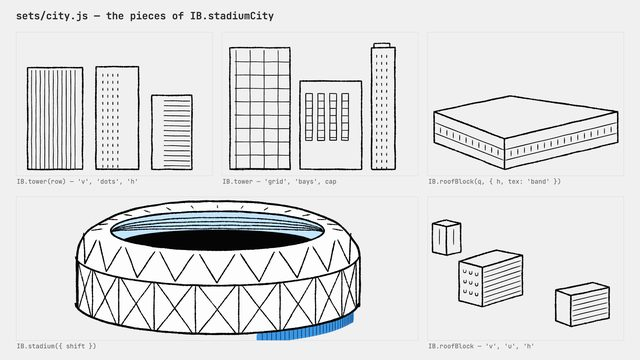
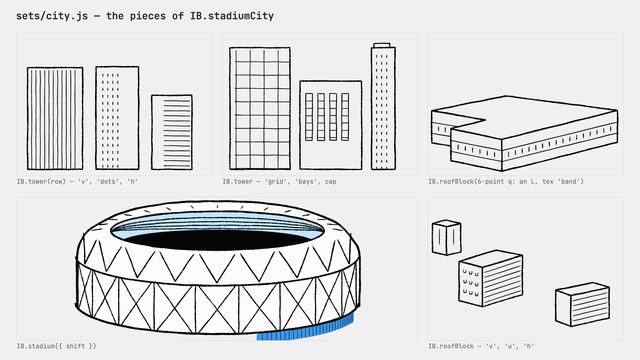
fix: 도시 설정 샷의 전경 지붕을 원본처럼 꺾인 L자로
계획 4-3의 첫째 약점이다. 원본 첫 설정 샷은 전경 블록 몇 개의 지붕이 꺾여 있다(모서리가 파인 L자, 안쪽으로 파인 홈). 지금까지는 모든 지붕이 네 점짜리 상자였다(city.js의 `성진:` 주석).
- `IB.roofBlock`이 다섯 점 이상의 지붕을 받는다. 보는 쪽(화면 아래)을 향한 변마다 벽을 내리고, 먼 벽부터 그린 뒤 지붕으로 덮는다. 무늬는 모든 벽에 얹는다.
  - 네 점 지붕은 예전 코드 그대로라 다른 블록의 그림은 바뀌지 않는다.
- 원본 첫 프레임을 50 px 격자로 읽어 두 블록을 다시 놓았다:
  - 왼쪽 앞의 큰 'band' 블록: 앞 왼쪽 모서리가 파인 L
  - 뒤의 두 상자: 오른쪽에 홈이 파인 한 블록, 벽 55 px
- 견본 sets/city-parts의 'band' 칸을 L 지붕으로 바꿨다.

확인:
- capture.py --compare를 원본 2, 20, 40프레임에서 원 해상도로 크롭해 대조했다(out/ibm-rig/city/). 꺾인 지붕의 모양과 벽 위치가 원본과 같은 방향으로 읽힌다.
- 처음엔 벽이 뒤쪽 변에 내려왔다(바깥 방향 부호 반대). 고치고 다시 봤다.
- check_pure 3/3, test_kit ok.

남은 차이(원래 있던 것): 원본 대비 장면 전체 구도가 몇십 px 어긋난다. 이 PR의 이유가 아니라 남겼다.

Claude-Session: https://claude.ai/code/session_01SxpfC2T1LyEk5ytvqY9P1D

Changed region(s): [[0.6562, 0.2444, 0.9688, 0.5194]]

diff --git a/parts.html b/parts.html
@@ -19,7 +19,7 @@
 </style>
 <h1>모션그래픽 레퍼런스 부품</h1>
 <p class="lead">부품 견본 59장 · 장면을 조립하는 kit 부품의 상태와 동작 · 카드에 마우스를 올리면 재생 · <a href="index.html">장면 시트</a></p>
-<h2>IBM</h2><h3>선·색·질감 <code>look</code></h3><div class="grid"><a class="card" href="IBM/parts/look/bend.html"><div class="thumb"><img src="IBM/thumbs/parts-look-bend.jpg" alt="" loading="lazy"></div><b>bend</b><span>견본 · 4s</span><p>선·색·질감 견본: 바닥 가운데로 서 있는 종이 한 장의 휨 IB.bend의 여섯 값.</p></a><a class="card" href="IBM/parts/look/copy.html"><div class="thumb"><img src="IBM/thumbs/parts-look-copy.jpg" alt="" loading="lazy"></div><b>copy</b><span>견본 · 4s</span><p>선·색·질감 견본: 카피 블록 IB.copy와 원본에서 잰 글자 크기 IB.TYPE(spot, head, body), 글꼴 IB.FONT(Pretendard).</p></a><a class="card" href="IBM/parts/look/crop.html"><div class="thumb"><img src="IBM/thumbs/parts-look-crop.jpg" alt="" loading="lazy"></div><b>crop</b><span>견본 · 3s</span><p>선·색·질감 견본: 원본 1920×1080 배치의 16:9 한 영역을 화면 가득 키우는 IB.crop.</p></a><a class="card" href="IBM/parts/look/endcard.html"><div class="thumb"><img src="IBM/thumbs/parts-look-endcard.jpg" alt="" loading="lazy"></div><b>endcard</b><span>견본 · 3s</span><p>선·색·질감 견본: 엔드카드의 한 줄 IB.copy(size &#x27;tag&#x27;, IB.TYPE.tag)과 그 아래 폭 1000px의 파란 분필 스미어 IB.smear.</p></a><a class="card" href="IBM/parts/look/line.html"><div class="thumb"><img src="IBM/thumbs/parts-look-line.jpg" alt="" loading="lazy"></div><b>line</b><span>견본 · 4s</span><p>선·색·질감 견본: 붓펜 한 획 IB.ink의 옵션과 점 목록 도우미(IB.line, IB.rect, IB.ellipse, IB.mirror, IB.along).</p></a><a class="card" href="IBM/parts/look/palette.html"><div class="thumb"><img src="IBM/thumbs/parts-look-palette.jpg" alt="" loading="lazy"></div><b>palette</b><span>견본 · 2s</span><p>선·색·질감 견본: 원본 프레임에서 뽑은 팔레트 IB.C의 색 열다섯과 피부색 다섯(IB.C.skin)을 붓펜 외곽선을 두른 면으로 늘어놓는다.</p></a><a class="card" href="IBM/parts/look/shapes.html"><div class="thumb"><img src="IBM/thumbs/parts-look-shapes.jpg" alt="" loading="lazy"></div><b>shapes</b><span>견본 · 4s</span><p>선·색·질감 견본: 붓펜 도형 줄임말 IB.box(직선은 곧게, 모서리 또렷), IB.oval(둥근 것), IB.seg(선분 하나), 색 띠에 양쪽 먹 가장자리를 두른 IB.tube(팔다리, 자전거 프레임)와 그것을 13px·2.75px 라벤더로 고정한 IB.pipe(받침대와 기계의 다리), 바닥 대신 놓는 파란 분필 스미어 IB.smear, 흑연 음영 IB.shade, 날벌레 IB.flyer, 사각 클립 IB.clipRect.</p></a><a class="card" href="IBM/parts/look/solid.html"><div class="thumb"><img src="IBM/thumbs/parts-look-solid.jpg" alt="" loading="lazy"></div><b>solid</b><span>견본 · 4s</span><p>선·색·질감 견본: 입체로 도는 사물의 계산 IB.space(작은 지역 공간을 무대 px로 투영), IB.cast(조각 하나의 투영점, 평균 깊이 z, 앞면인지 front), IB.rim(굽힐 수 있게 변마다 점을 찍은 사각형), IB.crease(접힌 자리의 흑연), IB.clip(다각형 클립).</p></a><a class="card" href="IBM/parts/look/whip.html"><div class="thumb"><img src="IBM/thumbs/parts-look-whip.jpg" alt="" loading="lazy"></div><b>whip</b><span>견본 · 3s</span><p>선·색·질감 견본: 두 샷을 잇는 스피드라인 휩 IB.whip의 한 장.</p></a></div><h3>출연진 <code>cast</code></h3><div class="grid"><a class="card" href="IBM/parts/cast/cat.html"><div class="thumb"><img src="IBM/thumbs/parts-cast-cat.jpg" alt="" loading="lazy"></div><b>cat</b><span>견본 · 4s</span><p>출연진 견본: 흰 채움에 먹 외곽선의 고양이 둘, 창가 고양이 IB.windowCat의 포즈와 동작 여섯, 의자 고양이 IB.chairCat의 눈과 꼬리, 그리고 IB.place로 옮겨 놓기.</p></a><a class="card" href="IBM/parts/cast/closeup.html"><div class="thumb"><img src="IBM/thumbs/parts-cast-closeup.jpg" alt="" loading="lazy"></div><b>closeup</b><span>견본 · 5s</span><p>출연진 견본: 펜싱 마스크 너머로 화면을 가득 채운 두 얼굴 IB.boldFace(자신 있는 쪽)와 IB.worriedFace(불안한 쪽)가 철망 IB.maskMesh 아래에서 동작 하나씩을 한다(IB.boldFace.MOVE.scowl, IB.worriedFace.MOVE.alarm).</p></a><a class="card" href="IBM/parts/cast/closeup-poses.html"><div class="thumb"><img src="IBM/thumbs/parts-cast-closeup-poses.jpg" alt="" loading="lazy"></div><b>closeup-poses</b><span>견본 · 2s</span><p>출연진 견본: 철망 얼굴의 이름 붙은 포즈 전부(IB.boldFace.POSE: rest, narrow, frown, glare, scowl, IB.worriedFace.POSE: squint, alarmed), 철망 IB.maskMesh만 따로, 그리고 다른 자리에 놓은 작은 인서트(opts.at·s·flip: 얼굴과 철망이 1920×1080 틀째 옮겨지고 그 틀 밖은 잘린다).</p></a><a class="card" href="IBM/parts/cast/dark-eyes.html"><div class="thumb"><img src="IBM/thumbs/parts-cast-dark-eyes.jpg" alt="" loading="lazy"></div><b>dark-eyes</b><span>견본 · 6s</span><p>출연진 견본: 여섯 번째 스팟을 여는 어둠 속의 눈 한 쌍 IB.darkEyes와 그 동작 IB.darkEyes.MOVE.search, shrink.</p></a><a class="card" href="IBM/parts/cast/doc.html"><div class="thumb"><img src="IBM/thumbs/parts-cast-doc.jpg" alt="" loading="lazy"></div><b>doc</b><span>견본 · 6s</span><p>출연진 견본: 서류 IB.doc의 포즈 둘(IB.doc.POSE.stand, byFolder)과 동작 여섯(IB.doc.MOVE.spin, armDance, watch, cross, leanIn, reach).</p></a><a class="card" href="IBM/parts/cast/figure.html"><div class="thumb"><img src="IBM/thumbs/parts-cast-figure.jpg" alt="" loading="lazy"></div><b>figure</b><span>견본 · 6s</span><p>출연진 견본: 관절 인물 리그 IB.figure와 그 포즈를 만드는 IB.stand, IB.walk, IB.walkLen, IB.poseMix, IB.footLift.</p></a><a class="card" href="IBM/parts/cast/figure-hands.html"><div class="thumb"><img src="IBM/thumbs/parts-cast-figure-hands.jpg" alt="" loading="lazy"></div><b>figure-hands</b><span>견본 · 4s</span><p>출연진 견본: 인물 리그 IB.figure의 손 네 가지(pose.hand: relax, grip, open, point), 긴소매의 소맷단 선, 앞 그림을 pose.prev로 넘겨 머리와 묶은 머리가 한 장 늦게 따라오는 움직임.</p></a><a class="card" href="IBM/parts/cast/figure-limbs.html"><div class="thumb"><img src="IBM/thumbs/parts-cast-figure-limbs.jpg" alt="" loading="lazy"></div><b>figure-limbs</b><span>견본 · 4s</span><p>출연진 견본: 인물 리그의 비례 IB.FIG와 선 굵기 IB.figLine, 그 아래의 두 관절 풀이 IB.ik와 옷 모양 IB.limb, 그리고 걷는 물건(폴더, 서류, 상자)의 팔다리 IB.peg·IB.hose·IB.boot와 손 IB.mitt·IB.clasp.</p></a><a class="card" href="IBM/parts/cast/figure-marks.html"><div class="thumb"><img src="IBM/thumbs/parts-cast-figure-marks.jpg" alt="" loading="lazy"></div><b>figure-marks</b><span>견본 · 4s</span><p>출연진 견본: 인물 곁에 붙는 말풍선 IB.bubble, 화면 밖에서 들어오는 손가락 IB.pointer와 팔 IB.reachArm, 떨림 표시 IB.shake.</p></a><a class="card" href="IBM/parts/cast/folder.html"><div class="thumb"><img src="IBM/thumbs/parts-cast-folder.jpg" alt="" loading="lazy"></div><b>folder</b><span>견본 · 6s</span><p>출연진 견본: 파란 폴더 IB.folder의 이름 붙은 포즈 넷(IB.folder.POSE: 원본 무대에서 서는 자리)과 동작 셋(IB.folder.MOVE.kick, aboutFace, groove), 그리고 다른 자리에 놓기(opts.at·s·flip, IB.place).</p></a><a class="card" href="IBM/parts/cast/folder-moves.html"><div class="thumb"><img src="IBM/thumbs/parts-cast-folder-moves.jpg" alt="" loading="lazy"></div><b>folder-moves</b><span>견본 · 6s</span><p>출연진 견본: 파란 폴더 IB.folder의 나머지 동작 다섯(IB.folder.MOVE.hipOut, lunge, shiftWeight, walkOver, leanIn)과, 폴더와 서류 IB.doc가 서로에게 뻗는 팔 IB.folder.MOVE.reach·IB.doc.MOVE.reach(IB.paperReach가 두 팔을 몸 뒤에서 그리고, 손이 닿으면 IB.paperClasp가 맞잡은 손을 몸 위에 그린다).</p></a><a class="card" href="IBM/parts/cast/hiding-doc.html"><div class="thumb"><img src="IBM/thumbs/parts-cast-hiding-doc.jpg" alt="" loading="lazy"></div><b>hiding-doc</b><span>견본 · 4s</span><p>출연진 견본: 숨는 서류 IB.hidingDoc과 그 눈 IB.docEyes(flashlight-finds-file).</p></a><a class="card" href="IBM/parts/cast/parcel.html"><div class="thumb"><img src="IBM/thumbs/parts-cast-parcel.jpg" alt="" loading="lazy"></div><b>parcel</b><span>견본 · 4s</span><p>출연진 견본: 걷는 상자 IB.parcel.</p></a><a class="card" href="IBM/parts/cast/passersby.html"><div class="thumb"><img src="IBM/thumbs/parts-cast-passersby.jpg" alt="" loading="lazy"></div><b>passersby</b><span>견본 · 4s</span><p>출연진 견본: 군중용 행인 열셋 IB.PASSERSBY.</p></a><a class="card" href="IBM/parts/cast/people.html"><div class="thumb"><img src="IBM/thumbs/parts-cast-people.jpg" alt="" loading="lazy"></div><b>people</b><span>견본 · 3s</span><p>출연진 견본: 창작 장면의 이름 붙은 사람들 IB.PEOPLE 열한 명.</p></a><a class="card" href="IBM/parts/cast/riders.html"><div class="thumb"><img src="IBM/thumbs/parts-cast-riders.jpg" alt="" loading="lazy"></div><b>riders</b><span>견본 · 3s</span><p>출연진 견본: 탠덤 스팟의 다섯 라이더 IB.RIDERS(curls, visor, cap, bun, vents)와 그들의 리그 IB.rider, 날아가는 모자 IB.flyingCap.</p></a><a class="card" href="IBM/parts/cast/riders-handsoff.html"><div class="thumb"><img src="IBM/thumbs/parts-cast-riders-handsoff.jpg" alt="" loading="lazy"></div><b>riders-handsoff</b><span>견본 · 5s</span><p>출연진 견본: 피날레에서 라이더마다 손잡이를 놓는 자기 방식 IB.rider.MOVE.handsOff(vents, bun, visor, curls: 동작 표가 아니라 라이더 이름별 표 넷이다).</p></a><a class="card" href="IBM/parts/cast/riders-moves.html"><div class="thumb"><img src="IBM/thumbs/parts-cast-riders-moves.jpg" alt="" loading="lazy"></div><b>riders-moves</b><span>견본 · 6s</span><p>출연진 견본: 라이더의 동작 표 IB.rider.MOVE 여덟(joinNew, joinBehind, joinAhead, lookBack, call, sing, singOn, loseCap).</p></a><a class="card" href="IBM/parts/cast/watcher.html"><div class="thumb"><img src="IBM/thumbs/parts-cast-watcher.jpg" alt="" loading="lazy"></div><b>watcher</b><span>견본 · 6s</span><p>출연진 견본: 여섯 번째 스팟의 쌍안경 든 사람 IB.watcher, 포즈 하나(IB.watcher.POSE.up)와 동작 넷(IB.watcher.MOVE.scanRight, swingLeft, find, lower).</p></a></div><h3>소품 <code>props</code></h3><div class="grid"><a class="card" href="IBM/parts/props/handheld-carry.html"><div class="thumb"><img src="IBM/thumbs/parts-props-handheld-carry.jpg" alt="" loading="lazy"></div><b>handheld-carry</b><span>견본 · 4s</span><p>소품 견본: 몸에 지니고 다니는 것 — 등에 멘 긴 가방 IB.slingBag과 끈 IB.strap, 테이크아웃 컵 IB.strawCup, 서류 가방 IB.briefcase, 작은 종이컵 IB.smallCup, 휴대전화 IB.mobilePhone, 골판지 상자 IB.cardboardBox.</p></a><a class="card" href="IBM/parts/props/handheld-chop.html"><div class="thumb"><img src="IBM/thumbs/parts-props-handheld-chop.jpg" alt="" loading="lazy"></div><b>handheld-chop</b><span>견본 · 6s</span><p>소품 견본: 장작 패기 — 도끼 IB.axe(382 px, 노란 자루와 숯색 머리), 그루터기 IB.choppingBlock, 반으로 갈라지는 통나무 IB.logHalf 둘과 그 윗면 IB.logTop, 튀는 나뭇조각 IB.woodChip.</p></a><a class="card" href="IBM/parts/props/handheld-tools.html"><div class="thumb"><img src="IBM/thumbs/parts-props-handheld-tools.jpg" alt="" loading="lazy"></div><b>handheld-tools</b><span>견본 · 4s</span><p>소품 견본: 손에 들고 겨누는 도구 — 손전등 IB.torch, 정원 호스 IB.gardenHose와 노즐 IB.nozzle, 물줄기 IB.waterJet.</p></a><a class="card" href="IBM/parts/props/home-button.html"><div class="thumb"><img src="IBM/thumbs/parts-props-home-button.jpg" alt="" loading="lazy"></div><b>home-button</b><span>견본 · 3s</span><p>소품 견본: 인서트 크기로 화면을 채운 승강기 호출 버튼 IB.callButton.</p></a><a class="card" href="IBM/parts/props/home-room.html"><div class="thumb"><img src="IBM/thumbs/parts-props-home-room.jpg" alt="" loading="lazy"></div><b>home-room</b><span>견본 · 7s</span><p>소품 견본: 방에 서는 큰 세간 — 노란 문 IB.door, 정면 식탁 의자 IB.diningChair(opts.lift로 바닥에서 뜬다), 생일 케이크를 올린 곁탁자 IB.partyTable과 그 위의 초 IB.candle.</p></a><a class="card" href="IBM/parts/props/home-wall.html"><div class="thumb"><img src="IBM/thumbs/parts-props-home-wall.jpg" alt="" loading="lazy"></div><b>home-wall</b><span>견본 · 4s</span><p>소품 견본: 방의 벽과 작은 세간 — 트로피 장 IB.trophyCabinet, 엇갈린 펜싱 검 IB.crossedFoils, 액자 IB.pictureFrame(210 × 160과 150 × 190), 펜던트 등 IB.hangingLamp, 나무 상자 IB.woodCrate, 생일 초 IB.candle의 네 상태.</p></a><a class="card" href="IBM/parts/props/metaphor.html"><div class="thumb"><img src="IBM/thumbs/parts-props-metaphor.jpg" alt="" loading="lazy"></div><b>metaphor</b><span>견본 · 7s</span><p>소품 견본: 은유, 설명 은유를 짓는 평범한 물건들, 솟는 막대 IB.bar, 깃발 IB.flag, 도미노 IB.domino와 기대어 멈추는 각도 IB.dominoRest(낭떠러지와 널빤지는 props/metaphor-bridge).</p></a><a class="card" href="IBM/parts/props/metaphor-bridge.html"><div class="thumb"><img src="IBM/thumbs/parts-props-metaphor-bridge.jpg" alt="" loading="lazy"></div><b>metaphor-bridge</b><span>견본 · 4s</span><p>소품 견본: 은유, 낭떠러지 IB.ledge 둘이 만든 틈과 그것을 잇는 겨자색 널빤지 IB.plank의 세 그림.</p></a><a class="card" href="IBM/parts/props/nature.html"><div class="thumb"><img src="IBM/thumbs/parts-props-nature.jpg" alt="" loading="lazy"></div><b>nature</b><span>견본 · 4s</span><p>소품 견본: 화분 두 가지(IB.pottedPlant와 IB.PLANTS.tall·bushy), 창턱 화분 IB.sillPlant(잎이 2프레임마다 흔들림), 구름 셋(IB.cloud, IB.bandCloud, IB.wispCloud), 나무 덩어리 IB.clump, 새 IB.bird, 풀과 돌 IB.tuft·IB.stones.</p></a><a class="card" href="IBM/parts/props/office-chart.html"><div class="thumb"><img src="IBM/thumbs/parts-props-office-chart.jpg" alt="" loading="lazy"></div><b>office-chart</b><span>견본 · 7.5s</span><p>소품 견본: 화면을 채운 캔들 차트 — 인서트 크기의 모니터 IB.monitor(1560 × 830, 선 8, 베젤 34) 위에 움직이지 않는 눈금 IB.priceGrid, 캔들 IB.candles, 점선 저항선 IB.dashLine, 돌파 캔들의 번짐 IB.candleSmear, 가격표 IB.priceTag, 커서 IB.cursor와 말풍선 카드 IB.popupTag.</p></a><a class="card" href="IBM/parts/props/office-desk.html"><div class="thumb"><img src="IBM/thumbs/parts-props-office-desk.jpg" alt="" loading="lazy"></div><b>office-desk</b><span>견본 · 4s</span><p>소품 견본: 앉은 사람의 자리 — 앉은 포즈 IB.sit과 사무용 의자 IB.chair(엉덩이 관절은 바닥에서 IB.SEAT = 0.335 h), 옆에서 본 책상 한 칸 IB.workstation, 책상 IB.desk와 키보드 IB.keyboard, 탁상 전화 IB.phoneCradle과 수화기 IB.handset, 종이컵 IB.cup.</p></a><a class="card" href="IBM/parts/props/office-screens.html"><div class="thumb"><img src="IBM/thumbs/parts-props-office-screens.jpg" alt="" loading="lazy"></div><b>office-screens</b><span>견본 · 7s</span><p>소품 견본: 사무실의 화면과 벽 — 정면 모니터 IB.monitor(520 × 340) 위에서 자라는 선 차트 IB.lineChart, 오르내림 화살표 IB.arrow, 그린 차트의 두 축 IB.chartAxes, 벽시계 IB.wallClock, 책상에서 날아가는 종이 IB.flyingSheet.</p></a><a class="card" href="IBM/parts/props/party.html"><div class="thumb"><img src="IBM/thumbs/parts-props-party.jpg" alt="" loading="lazy"></div><b>party</b><span>견본 · 5s</span><p>소품 견본: 파티, 줄 달린 풍선 IB.balloon(한 가지 색 채움에 종이색 반사 호, 줄은 매듭 쪽으로 처짐), 미러볼 IB.discoBall, 바닥에 굴러다니다 차이는 풍선 IB.looseBalloon과 그 동작 IB.looseBalloon.MOVE.kicked, 작은 하트 풍선 IB.heartBalloon, 바닥 색종이 IB.confettiField·IB.confetti.</p></a><a class="card" href="IBM/parts/props/vehicles-coaster.html"><div class="thumb"><img src="IBM/thumbs/parts-props-vehicles-coaster.jpg" alt="" loading="lazy"></div><b>vehicles-coaster</b><span>견본 · 7.5s</span><p>소품 견본: 탈것, 롤러코스터 한 벌, 레일 IB.rail, 트랙 IB.coasterTrack, 카트 IB.coasterCart, 오르막의 딸깍 IB.coasterClack, 곤두박질 한 장의 IB.coasterSpeedLines.</p></a><a class="card" href="IBM/parts/props/vehicles-heli.html"><div class="thumb"><img src="IBM/thumbs/parts-props-vehicles-heli.jpg" alt="" loading="lazy"></div><b>vehicles-heli</b><span>견본 · 3s</span><p>소품 견본: 탈것, 노란 헬리콥터의 옆모습 IB.heli와 정면 IB.heliFront, 그리고 회전날개 IB.rotor.</p></a><a class="card" href="IBM/parts/props/vehicles-heli-flyin.html"><div class="thumb"><img src="IBM/thumbs/parts-props-vehicles-heli-flyin.jpg" alt="" loading="lazy"></div><b>vehicles-heli-flyin</b><span>견본 · 2.25s</span><p>소품 견본: 탈것, 원본 첫 설정 샷의 헬리콥터 비행 IB.heli.MOVE.flyIn을 IB.heliDrawing으로 한 장씩 그린다(2프레임마다 열아홉 장, 8프레임부터).</p></a><a class="card" href="IBM/parts/props/vehicles-machines.html"><div class="thumb"><img src="IBM/thumbs/parts-props-vehicles-machines.jpg" alt="" loading="lazy"></div><b>vehicles-machines</b><span>견본 · 5s</span><p>소품 견본: 탈것, 컨베이어 IB.conveyor와 그 위의 도장 찍는 문 IB.stamper, 노란 택시 IB.cab, 종이비행기 IB.paperPlane.</p></a><a class="card" href="IBM/parts/props/vehicles-tandem.html"><div class="thumb"><img src="IBM/thumbs/parts-props-vehicles-tandem.jpg" alt="" loading="lazy"></div><b>vehicles-tandem</b><span>견본 · 5s</span><p>소품 견본: 탈것, 원본 다섯째 스팟의 탠덤 IB.tandem, 한 사람이 탈 때마다 자리 하나(안장, 크랭크, 뒷사람 손잡이)가 자라는 자전거다.</p></a></div><h3>배경 세트 <code>sets</code></h3><div class="grid"><a class="card" href="IBM/parts/sets/city.html"><div class="thumb"><img src="IBM/thumbs/parts-sets-city.jpg" alt="" loading="lazy"></div><b>city</b><span>견본 · 6s</span><p>배경 세트 견본: 도시와 경기장 IB.stadiumCity가 레이어 넷으로 쌓인다(sky: 구름과 새, skyline: 고층 건물 IB.tower와 그 발치의 덩어리, stadium: IB.stadium, front: 지붕 블록 IB.roofBlock과 전경의 나무).</p></a><a class="card" href="IBM/parts/sets/city-parts.html"><div class="thumb"><img src="IBM/thumbs/parts-sets-city-parts.jpg" alt="" loading="lazy"></div><b>city-parts</b><span>견본 · 2s</span><p>배경 세트 견본: 도시 세트(sets/city 전면)를 짓는 조각 셋, 정면에서 본 고층 건물 IB.tower, 위에서 본 납작 지붕 블록 IB.roofBlock, 경기장 IB.stadium.</p></a><a class="card" href="IBM/parts/sets/corridor.html"><div class="thumb"><img src="IBM/thumbs/parts-sets-corridor.jpg" alt="" loading="lazy"></div><b>corridor</b><span>견본 · 3s</span><p>배경 세트 견본: 소실점 하나로 본 긴 복도 IB.corridor와 그 속을 날아가는 종이비행기 IB.paperPlane.</p></a><a class="card" href="IBM/parts/sets/facade.html"><div class="thumb"><img src="IBM/thumbs/parts-sets-facade.jpg" alt="" loading="lazy"></div><b>facade</b><span>견본 · 5s</span><p>배경 세트 견본: 원본 여섯째 스팟의 아파트 벽 IB.apartmentFacade, 창 둘이 나란하고 오른쪽 창 너머로 방(선반, 액자, 펜던트 등)이 보인다.</p></a><a class="card" href="IBM/parts/sets/party.html"><div class="thumb"><img src="IBM/thumbs/parts-sets-party.jpg" alt="" loading="lazy"></div><b>party</b><span>견본 · 4s</span><p>배경 세트 견본: 원본 넷째 스팟의 사무실 파티 구석 IB.partyCorner, 라벤더 파이프 받침의 농구 골대와 그물, 거기 묶인 풍선 여섯, 오른쪽 위 화면 밖으로 이어지는 가랜드.</p></a><a class="card" href="IBM/parts/sets/street.html"><div class="thumb"><img src="IBM/thumbs/parts-sets-street.jpg" alt="" loading="lazy"></div><b>street</b><span>견본 · 2s</span><p>배경 세트 견본: 금융가 거리 IB.financeStreet, 먼 스카이라인, 탑 둘(창 격자 IB.windowGrid), 기둥과 박공의 증권거래소, 연석과 가로등과 소화전과 빈 간판을 한 장의 멈춘 선화로 그린다.</p></a><a class="card" href="IBM/parts/sets/trading.html"><div class="thumb"><img src="IBM/thumbs/parts-sets-trading.jpg" alt="" loading="lazy"></div><b>trading</b><span>견본 · 5s</span><p>배경 세트 견본: 객장 벽의 시세판 IB.tickerBoard, 1280×280 판에 제목 띠와 여섯 칸 두 줄, 칸마다 이름과 값 대신 막대 둘과 화살표 하나(파란 위, 빨간 아래)이고 아래 가장자리에 흑연이 진다.</p></a><a class="card" href="IBM/parts/sets/windows.html"><div class="thumb"><img src="IBM/thumbs/parts-sets-windows.jpg" alt="" loading="lazy"></div><b>windows</b><span>견본 · 2.5s</span><p>배경 세트 견본: 창 둘, 아파트 벽의 내리닫이창 한 짝(IB.windowFrame 뒤, IB.sashAndSill 앞)과 빌딩 면의 창 격자 IB.windowGrid.</p></a></div><h3>효과 표시 <code>marks</code></h3><div class="grid"><a class="card" href="IBM/parts/marks/darkness.html"><div class="thumb"><img src="IBM/thumbs/parts-marks-darkness.jpg" alt="" loading="lazy"></div><b>darkness</b><span>견본 · 5s</span><p>효과 표시 견본: 어두운 장면 IB.darkness는 검정 한 면이고, 빛줄기는 번짐 없이 또렷한 삼각형으로 그 면을 도려낸다(원본 6편의 암전).</p></a><a class="card" href="IBM/parts/marks/impact.html"><div class="thumb"><img src="IBM/thumbs/parts-marks-impact.jpg" alt="" loading="lazy"></div><b>impact</b><span>견본 · 4s</span><p>효과 표시 견본: 움직임을 매끈하게 잇는 대신 옆에 몇 획 그어 두는 표시들, 충격선 IB.burst, 내려놓는 쿵 IB.thud, 입김 IB.breath, 꺼진 심지의 연기 IB.smoke, 물방울 IB.drop과 튀김 IB.splash, 흑연 문지름 IB.smudge, 신발 밑 분필 IB.puddle, 바퀴 밑 IB.ripples와 뒷바퀴 먼지 IB.wheelDust.</p></a><a class="card" href="IBM/parts/marks/whip-breakup.html"><div class="thumb"><img src="IBM/thumbs/parts-marks-whip-breakup.jpg" alt="" loading="lazy"></div><b>whip-breakup</b><span>견본 · 4s</span><p>효과 표시 견본: 컷이 속도선 휩(IB.whip)으로 넘어갈 때 샷이 부서지는 IB.whipBreakup, 두 장면의 두 방식을 차례로 보인다.</p></a></div><h3>박자 <code>time</code></h3><div class="grid"><a class="card" href="IBM/parts/time/clocks.html"><div class="thumb"><img src="IBM/thumbs/parts-time-clocks.jpg" alt="" loading="lazy"></div><b>clocks</b><span>견본 · 4s</span><p>박자 견본: IBM 룩의 시계 IB.frame(24fps 1프레임 단위), IB.twos(2프레임마다 한 장, 12fps), IB.threes(3프레임마다, 8fps)와 박자 격자 IB.T(n) = n/12, IB.FPS, 정착 곡선 IB.settle, 박자부터 센 그림 수 IB.drawn.</p></a><a class="card" href="IBM/parts/time/tables.html"><div class="thumb"><img src="IBM/thumbs/parts-time-tables.jpg" alt="" loading="lazy"></div><b>tables</b><span>견본 · 4s</span><p>박자 견본: 연기를 적는 그림 목록 도구 IB.held(그 프레임에 유효한 그림), IB.heldRow(값 여럿인 행 통째로), IB.play(캐릭터의 MOVE를 장면 표의 시작 프레임에 끼우기), IB.inbetween(손으로 놓은 섞는 비율), IB.alternate(두 그림 번갈아), IB.loop(멈추지 않는 순환).</p></a></div>
+<h2>IBM</h2><h3>선·색·질감 <code>look</code></h3><div class="grid"><a class="card" href="IBM/parts/look/bend.html"><div class="thumb"><img src="IBM/thumbs/parts-look-bend.jpg" alt="" loading="lazy"></div><b>bend</b><span>견본 · 4s</span><p>선·색·질감 견본: 바닥 가운데로 서 있는 종이 한 장의 휨 IB.bend의 여섯 값.</p></a><a class="card" href="IBM/parts/look/copy.html"><div class="thumb"><img src="IBM/thumbs/parts-look-copy.jpg" alt="" loading="lazy"></div><b>copy</b><span>견본 · 4s</span><p>선·색·질감 견본: 카피 블록 IB.copy와 원본에서 잰 글자 크기 IB.TYPE(spot, head, body), 글꼴 IB.FONT(Pretendard).</p></a><a class="card" href="IBM/parts/look/crop.html"><div class="thumb"><img src="IBM/thumbs/parts-look-crop.jpg" alt="" loading="lazy"></div><b>crop</b><span>견본 · 3s</span><p>선·색·질감 견본: 원본 1920×1080 배치의 16:9 한 영역을 화면 가득 키우는 IB.crop.</p></a><a class="card" href="IBM/parts/look/endcard.html"><div class="thumb"><img src="IBM/thumbs/parts-look-endcard.jpg" alt="" loading="lazy"></div><b>endcard</b><span>견본 · 3s</span><p>선·색·질감 견본: 엔드카드의 한 줄 IB.copy(size &#x27;tag&#x27;, IB.TYPE.tag)과 그 아래 폭 1000px의 파란 분필 스미어 IB.smear.</p></a><a class="card" href="IBM/parts/look/line.html"><div class="thumb"><img src="IBM/thumbs/parts-look-line.jpg" alt="" loading="lazy"></div><b>line</b><span>견본 · 4s</span><p>선·색·질감 견본: 붓펜 한 획 IB.ink의 옵션과 점 목록 도우미(IB.line, IB.rect, IB.ellipse, IB.mirror, IB.along).</p></a><a class="card" href="IBM/parts/look/palette.html"><div class="thumb"><img src="IBM/thumbs/parts-look-palette.jpg" alt="" loading="lazy"></div><b>palette</b><span>견본 · 2s</span><p>선·색·질감 견본: 원본 프레임에서 뽑은 팔레트 IB.C의 색 열다섯과 피부색 다섯(IB.C.skin)을 붓펜 외곽선을 두른 면으로 늘어놓는다.</p></a><a class="card" href="IBM/parts/look/shapes.html"><div class="thumb"><img src="IBM/thumbs/parts-look-shapes.jpg" alt="" loading="lazy"></div><b>shapes</b><span>견본 · 4s</span><p>선·색·질감 견본: 붓펜 도형 줄임말 IB.box(직선은 곧게, 모서리 또렷), IB.oval(둥근 것), IB.seg(선분 하나), 색 띠에 양쪽 먹 가장자리를 두른 IB.tube(팔다리, 자전거 프레임)와 그것을 13px·2.75px 라벤더로 고정한 IB.pipe(받침대와 기계의 다리), 바닥 대신 놓는 파란 분필 스미어 IB.smear, 흑연 음영 IB.shade, 날벌레 IB.flyer, 사각 클립 IB.clipRect.</p></a><a class="card" href="IBM/parts/look/solid.html"><div class="thumb"><img src="IBM/thumbs/parts-look-solid.jpg" alt="" loading="lazy"></div><b>solid</b><span>견본 · 4s</span><p>선·색·질감 견본: 입체로 도는 사물의 계산 IB.space(작은 지역 공간을 무대 px로 투영), IB.cast(조각 하나의 투영점, 평균 깊이 z, 앞면인지 front), IB.rim(굽힐 수 있게 변마다 점을 찍은 사각형), IB.crease(접힌 자리의 흑연), IB.clip(다각형 클립).</p></a><a class="card" href="IBM/parts/look/whip.html"><div class="thumb"><img src="IBM/thumbs/parts-look-whip.jpg" alt="" loading="lazy"></div><b>whip</b><span>견본 · 3s</span><p>선·색·질감 견본: 두 샷을 잇는 스피드라인 휩 IB.whip의 한 장.</p></a></div><h3>출연진 <code>cast</code></h3><div class="grid"><a class="card" href="IBM/parts/cast/cat.html"><div class="thumb"><img src="IBM/thumbs/parts-cast-cat.jpg" alt="" loading="lazy"></div><b>cat</b><span>견본 · 4s</span><p>출연진 견본: 흰 채움에 먹 외곽선의 고양이 둘, 창가 고양이 IB.windowCat의 포즈와 동작 여섯, 의자 고양이 IB.chairCat의 눈과 꼬리, 그리고 IB.place로 옮겨 놓기.</p></a><a class="card" href="IBM/parts/cast/closeup.html"><div class="thumb"><img src="IBM/thumbs/parts-cast-closeup.jpg" alt="" loading="lazy"></div><b>closeup</b><span>견본 · 5s</span><p>출연진 견본: 펜싱 마스크 너머로 화면을 가득 채운 두 얼굴 IB.boldFace(자신 있는 쪽)와 IB.worriedFace(불안한 쪽)가 철망 IB.maskMesh 아래에서 동작 하나씩을 한다(IB.boldFace.MOVE.scowl, IB.worriedFace.MOVE.alarm).</p></a><a class="card" href="IBM/parts/cast/closeup-poses.html"><div class="thumb"><img src="IBM/thumbs/parts-cast-closeup-poses.jpg" alt="" loading="lazy"></div><b>closeup-poses</b><span>견본 · 2s</span><p>출연진 견본: 철망 얼굴의 이름 붙은 포즈 전부(IB.boldFace.POSE: rest, narrow, frown, glare, scowl, IB.worriedFace.POSE: squint, alarmed), 철망 IB.maskMesh만 따로, 그리고 다른 자리에 놓은 작은 인서트(opts.at·s·flip: 얼굴과 철망이 1920×1080 틀째 옮겨지고 그 틀 밖은 잘린다).</p></a><a class="card" href="IBM/parts/cast/dark-eyes.html"><div class="thumb"><img src="IBM/thumbs/parts-cast-dark-eyes.jpg" alt="" loading="lazy"></div><b>dark-eyes</b><span>견본 · 6s</span><p>출연진 견본: 여섯 번째 스팟을 여는 어둠 속의 눈 한 쌍 IB.darkEyes와 그 동작 IB.darkEyes.MOVE.search, shrink.</p></a><a class="card" href="IBM/parts/cast/doc.html"><div class="thumb"><img src="IBM/thumbs/parts-cast-doc.jpg" alt="" loading="lazy"></div><b>doc</b><span>견본 · 6s</span><p>출연진 견본: 서류 IB.doc의 포즈 둘(IB.doc.POSE.stand, byFolder)과 동작 여섯(IB.doc.MOVE.spin, armDance, watch, cross, leanIn, reach).</p></a><a class="card" href="IBM/parts/cast/figure.html"><div class="thumb"><img src="IBM/thumbs/parts-cast-figure.jpg" alt="" loading="lazy"></div><b>figure</b><span>견본 · 6s</span><p>출연진 견본: 관절 인물 리그 IB.figure와 그 포즈를 만드는 IB.stand, IB.walk, IB.walkLen, IB.poseMix, IB.footLift.</p></a><a class="card" href="IBM/parts/cast/figure-hands.html"><div class="thumb"><img src="IBM/thumbs/parts-cast-figure-hands.jpg" alt="" loading="lazy"></div><b>figure-hands</b><span>견본 · 4s</span><p>출연진 견본: 인물 리그 IB.figure의 손 네 가지(pose.hand: relax, grip, open, point), 긴소매의 소맷단 선, 앞 그림을 pose.prev로 넘겨 머리와 묶은 머리가 한 장 늦게 따라오는 움직임.</p></a><a class="card" href="IBM/parts/cast/figure-limbs.html"><div class="thumb"><img src="IBM/thumbs/parts-cast-figure-limbs.jpg" alt="" loading="lazy"></div><b>figure-limbs</b><span>견본 · 4s</span><p>출연진 견본: 인물 리그의 비례 IB.FIG와 선 굵기 IB.figLine, 그 아래의 두 관절 풀이 IB.ik와 옷 모양 IB.limb, 그리고 걷는 물건(폴더, 서류, 상자)의 팔다리 IB.peg·IB.hose·IB.boot와 손 IB.mitt·IB.clasp.</p></a><a class="card" href="IBM/parts/cast/figure-marks.html"><div class="thumb"><img src="IBM/thumbs/parts-cast-figure-marks.jpg" alt="" loading="lazy"></div><b>figure-marks</b><span>견본 · 4s</span><p>출연진 견본: 인물 곁에 붙는 말풍선 IB.bubble, 화면 밖에서 들어오는 손가락 IB.pointer와 팔 IB.reachArm, 떨림 표시 IB.shake.</p></a><a class="card" href="IBM/parts/cast/folder.html"><div class="thumb"><img src="IBM/thumbs/parts-cast-folder.jpg" alt="" loading="lazy"></div><b>folder</b><span>견본 · 6s</span><p>출연진 견본: 파란 폴더 IB.folder의 이름 붙은 포즈 넷(IB.folder.POSE: 원본 무대에서 서는 자리)과 동작 셋(IB.folder.MOVE.kick, aboutFace, groove), 그리고 다른 자리에 놓기(opts.at·s·flip, IB.place).</p></a><a class="card" href="IBM/parts/cast/folder-moves.html"><div class="thumb"><img src="IBM/thumbs/parts-cast-folder-moves.jpg" alt="" loading="lazy"></div><b>folder-moves</b><span>견본 · 6s</span><p>출연진 견본: 파란 폴더 IB.folder의 나머지 동작 다섯(IB.folder.MOVE.hipOut, lunge, shiftWeight, walkOver, leanIn)과, 폴더와 서류 IB.doc가 서로에게 뻗는 팔 IB.folder.MOVE.reach·IB.doc.MOVE.reach(IB.paperReach가 두 팔을 몸 뒤에서 그리고, 손이 닿으면 IB.paperClasp가 맞잡은 손을 몸 위에 그린다).</p></a><a class="card" href="IBM/parts/cast/hiding-doc.html"><div class="thumb"><img src="IBM/thumbs/parts-cast-hiding-doc.jpg" alt="" loading="lazy"></div><b>hiding-doc</b><span>견본 · 4s</span><p>출연진 견본: 숨는 서류 IB.hidingDoc과 그 눈 IB.docEyes(flashlight-finds-file).</p></a><a class="card" href="IBM/parts/cast/parcel.html"><div class="thumb"><img src="IBM/thumbs/parts-cast-parcel.jpg" alt="" loading="lazy"></div><b>parcel</b><span>견본 · 4s</span><p>출연진 견본: 걷는 상자 IB.parcel.</p></a><a class="card" href="IBM/parts/cast/passersby.html"><div class="thumb"><img src="IBM/thumbs/parts-cast-passersby.jpg" alt="" loading="lazy"></div><b>passersby</b><span>견본 · 4s</span><p>출연진 견본: 군중용 행인 열셋 IB.PASSERSBY.</p></a><a class="card" href="IBM/parts/cast/people.html"><div class="thumb"><img src="IBM/thumbs/parts-cast-people.jpg" alt="" loading="lazy"></div><b>people</b><span>견본 · 3s</span><p>출연진 견본: 창작 장면의 이름 붙은 사람들 IB.PEOPLE 열한 명.</p></a><a class="card" href="IBM/parts/cast/riders.html"><div class="thumb"><img src="IBM/thumbs/parts-cast-riders.jpg" alt="" loading="lazy"></div><b>riders</b><span>견본 · 3s</span><p>출연진 견본: 탠덤 스팟의 다섯 라이더 IB.RIDERS(curls, visor, cap, bun, vents)와 그들의 리그 IB.rider, 날아가는 모자 IB.flyingCap.</p></a><a class="card" href="IBM/parts/cast/riders-handsoff.html"><div class="thumb"><img src="IBM/thumbs/parts-cast-riders-handsoff.jpg" alt="" loading="lazy"></div><b>riders-handsoff</b><span>견본 · 5s</span><p>출연진 견본: 피날레에서 라이더마다 손잡이를 놓는 자기 방식 IB.rider.MOVE.handsOff(vents, bun, visor, curls: 동작 표가 아니라 라이더 이름별 표 넷이다).</p></a><a class="card" href="IBM/parts/cast/riders-moves.html"><div class="thumb"><img src="IBM/thumbs/parts-cast-riders-moves.jpg" alt="" loading="lazy"></div><b>riders-moves</b><span>견본 · 6s</span><p>출연진 견본: 라이더의 동작 표 IB.rider.MOVE 여덟(joinNew, joinBehind, joinAhead, lookBack, call, sing, singOn, loseCap).</p></a><a class="card" href="IBM/parts/cast/watcher.html"><div class="thumb"><img src="IBM/thumbs/parts-cast-watcher.jpg" alt="" loading="lazy"></div><b>watcher</b><span>견본 · 6s</span><p>출연진 견본: 여섯 번째 스팟의 쌍안경 든 사람 IB.watcher, 포즈 하나(IB.watcher.POSE.up)와 동작 넷(IB.watcher.MOVE.scanRight, swingLeft, find, lower).</p></a></div><h3>소품 <code>props</code></h3><div class="grid"><a class="card" href="IBM/parts/props/handheld-carry.html"><div class="thumb"><img src="IBM/thumbs/parts-props-handheld-carry.jpg" alt="" loading="lazy"></div><b>handheld-carry</b><span>견본 · 4s</span><p>소품 견본: 몸에 지니고 다니는 것 — 등에 멘 긴 가방 IB.slingBag과 끈 IB.strap, 테이크아웃 컵 IB.strawCup, 서류 가방 IB.briefcase, 작은 종이컵 IB.smallCup, 휴대전화 IB.mobilePhone, 골판지 상자 IB.cardboardBox.</p></a><a class="card" href="IBM/parts/props/handheld-chop.html"><div class="thumb"><img src="IBM/thumbs/parts-props-handheld-chop.jpg" alt="" loading="lazy"></div><b>handheld-chop</b><span>견본 · 6s</span><p>소품 견본: 장작 패기 — 도끼 IB.axe(382 px, 노란 자루와 숯색 머리), 그루터기 IB.choppingBlock, 반으로 갈라지는 통나무 IB.logHalf 둘과 그 윗면 IB.logTop, 튀는 나뭇조각 IB.woodChip.</p></a><a class="card" href="IBM/parts/props/handheld-tools.html"><div class="thumb"><img src="IBM/thumbs/parts-props-handheld-tools.jpg" alt="" loading="lazy"></div><b>handheld-tools</b><span>견본 · 4s</span><p>소품 견본: 손에 들고 겨누는 도구 — 손전등 IB.torch, 정원 호스 IB.gardenHose와 노즐 IB.nozzle, 물줄기 IB.waterJet.</p></a><a class="card" href="IBM/parts/props/home-button.html"><div class="thumb"><img src="IBM/thumbs/parts-props-home-button.jpg" alt="" loading="lazy"></div><b>home-button</b><span>견본 · 3s</span><p>소품 견본: 인서트 크기로 화면을 채운 승강기 호출 버튼 IB.callButton.</p></a><a class="card" href="IBM/parts/props/home-room.html"><div class="thumb"><img src="IBM/thumbs/parts-props-home-room.jpg" alt="" loading="lazy"></div><b>home-room</b><span>견본 · 7s</span><p>소품 견본: 방에 서는 큰 세간 — 노란 문 IB.door, 정면 식탁 의자 IB.diningChair(opts.lift로 바닥에서 뜬다), 생일 케이크를 올린 곁탁자 IB.partyTable과 그 위의 초 IB.candle.</p></a><a class="card" href="IBM/parts/props/home-wall.html"><div class="thumb"><img src="IBM/thumbs/parts-props-home-wall.jpg" alt="" loading="lazy"></div><b>home-wall</b><span>견본 · 4s</span><p>소품 견본: 방의 벽과 작은 세간 — 트로피 장 IB.trophyCabinet, 엇갈린 펜싱 검 IB.crossedFoils, 액자 IB.pictureFrame(210 × 160과 150 × 190), 펜던트 등 IB.hangingLamp, 나무 상자 IB.woodCrate, 생일 초 IB.candle의 네 상태.</p></a><a class="card" href="IBM/parts/props/metaphor.html"><div class="thumb"><img src="IBM/thumbs/parts-props-metaphor.jpg" alt="" loading="lazy"></div><b>metaphor</b><span>견본 · 7s</span><p>소품 견본: 은유, 설명 은유를 짓는 평범한 물건들, 솟는 막대 IB.bar, 깃발 IB.flag, 도미노 IB.domino와 기대어 멈추는 각도 IB.dominoRest(낭떠러지와 널빤지는 props/metaphor-bridge).</p></a><a class="card" href="IBM/parts/props/metaphor-bridge.html"><div class="thumb"><img src="IBM/thumbs/parts-props-metaphor-bridge.jpg" alt="" loading="lazy"></div><b>metaphor-bridge</b><span>견본 · 4s</span><p>소품 견본: 은유, 낭떠러지 IB.ledge 둘이 만든 틈과 그것을 잇는 겨자색 널빤지 IB.plank의 세 그림.</p></a><a class="card" href="IBM/parts/props/nature.html"><div class="thumb"><img src="IBM/thumbs/parts-props-nature.jpg" alt="" loading="lazy"></div><b>nature</b><span>견본 · 4s</span><p>소품 견본: 화분 두 가지(IB.pottedPlant와 IB.PLANTS.tall·bushy), 창턱 화분 IB.sillPlant(잎이 2프레임마다 흔들림), 구름 셋(IB.cloud, IB.bandCloud, IB.wispCloud), 나무 덩어리 IB.clump, 새 IB.bird, 풀과 돌 IB.tuft·IB.stones.</p></a><a class="card" href="IBM/parts/props/office-chart.html"><div class="thumb"><img src="IBM/thumbs/parts-props-office-chart.jpg" alt="" loading="lazy"></div><b>office-chart</b><span>견본 · 7.5s</span><p>소품 견본: 화면을 채운 캔들 차트 — 인서트 크기의 모니터 IB.monitor(1560 × 830, 선 8, 베젤 34) 위에 움직이지 않는 눈금 IB.priceGrid, 캔들 IB.candles, 점선 저항선 IB.dashLine, 돌파 캔들의 번짐 IB.candleSmear, 가격표 IB.priceTag, 커서 IB.cursor와 말풍선 카드 IB.popupTag.</p></a><a class="card" href="IBM/parts/props/office-desk.html"><div class="thumb"><img src="IBM/thumbs/parts-props-office-desk.jpg" alt="" loading="lazy"></div><b>office-desk</b><span>견본 · 4s</span><p>소품 견본: 앉은 사람의 자리 — 앉은 포즈 IB.sit과 사무용 의자 IB.chair(엉덩이 관절은 바닥에서 IB.SEAT = 0.335 h), 옆에서 본 책상 한 칸 IB.workstation, 책상 IB.desk와 키보드 IB.keyboard, 탁상 전화 IB.phoneCradle과 수화기 IB.handset, 종이컵 IB.cup.</p></a><a class="card" href="IBM/parts/props/office-screens.html"><div class="thumb"><img src="IBM/thumbs/parts-props-office-screens.jpg" alt="" loading="lazy"></div><b>office-screens</b><span>견본 · 7s</span><p>소품 견본: 사무실의 화면과 벽 — 정면 모니터 IB.monitor(520 × 340) 위에서 자라는 선 차트 IB.lineChart, 오르내림 화살표 IB.arrow, 그린 차트의 두 축 IB.chartAxes, 벽시계 IB.wallClock, 책상에서 날아가는 종이 IB.flyingSheet.</p></a><a class="card" href="IBM/parts/props/party.html"><div class="thumb"><img src="IBM/thumbs/parts-props-party.jpg" alt="" loading="lazy"></div><b>party</b><span>견본 · 5s</span><p>소품 견본: 파티, 줄 달린 풍선 IB.balloon(한 가지 색 채움에 종이색 반사 호, 줄은 매듭 쪽으로 처짐), 미러볼 IB.discoBall, 바닥에 굴러다니다 차이는 풍선 IB.looseBalloon과 그 동작 IB.looseBalloon.MOVE.kicked, 작은 하트 풍선 IB.heartBalloon, 바닥 색종이 IB.confettiField·IB.confetti.</p></a><a class="card" href="IBM/parts/props/vehicles-coaster.html"><div class="thumb"><img src="IBM/thumbs/parts-props-vehicles-coaster.jpg" alt="" loading="lazy"></div><b>vehicles-coaster</b><span>견본 · 7.5s</span><p>소품 견본: 탈것, 롤러코스터 한 벌, 레일 IB.rail, 트랙 IB.coasterTrack, 카트 IB.coasterCart, 오르막의 딸깍 IB.coasterClack, 곤두박질 한 장의 IB.coasterSpeedLines.</p></a><a class="card" href="IBM/parts/props/vehicles-heli.html"><div class="thumb"><img src="IBM/thumbs/parts-props-vehicles-heli.jpg" alt="" loading="lazy"></div><b>vehicles-heli</b><span>견본 · 3s</span><p>소품 견본: 탈것, 노란 헬리콥터의 옆모습 IB.heli와 정면 IB.heliFront, 그리고 회전날개 IB.rotor.</p></a><a class="card" href="IBM/parts/props/vehicles-heli-flyin.html"><div class="thumb"><img src="IBM/thumbs/parts-props-vehicles-heli-flyin.jpg" alt="" loading="lazy"></div><b>vehicles-heli-flyin</b><span>견본 · 2.25s</span><p>소품 견본: 탈것, 원본 첫 설정 샷의 헬리콥터 비행 IB.heli.MOVE.flyIn을 IB.heliDrawing으로 한 장씩 그린다(2프레임마다 열아홉 장, 8프레임부터).</p></a><a class="card" href="IBM/parts/props/vehicles-machines.html"><div class="thumb"><img src="IBM/thumbs/parts-props-vehicles-machines.jpg" alt="" loading="lazy"></div><b>vehicles-machines</b><span>견본 · 5s</span><p>소품 견본: 탈것, 컨베이어 IB.conveyor와 그 위의 도장 찍는 문 IB.stamper, 노란 택시 IB.cab, 종이비행기 IB.paperPlane.</p></a><a class="card" href="IBM/parts/props/vehicles-tandem.html"><div class="thumb"><img src="IBM/thumbs/parts-props-vehicles-tandem.jpg" alt="" loading="lazy"></div><b>vehicles-tandem</b><span>견본 · 5s</span><p>소품 견본: 탈것, 원본 다섯째 스팟의 탠덤 IB.tandem, 한 사람이 탈 때마다 자리 하나(안장, 크랭크, 뒷사람 손잡이)가 자라는 자전거다.</p></a></div><h3>배경 세트 <code>sets</code></h3><div class="grid"><a class="card" href="IBM/parts/sets/city.html"><div class="thumb"><img src="IBM/thumbs/parts-sets-city.jpg" alt="" loading="lazy"></div><b>city</b><span>견본 · 6s</span><p>배경 세트 견본: 도시와 경기장 IB.stadiumCity가 레이어 넷으로 쌓인다(sky: 구름과 새, skyline: 고층 건물 IB.tower와 그 발치의 덩어리, stadium: IB.stadium, front: 지붕 블록 IB.roofBlock과 전경의 나무).</p></a><a class="card" href="IBM/parts/sets/city-parts.html"><div class="thumb"><img src="IBM/thumbs/parts-sets-city-parts.jpg" alt="" loading="lazy"></div><b>city-parts</b><span>견본 · 2s</span><p>배경 세트 견본: 도시 세트(sets/city 전면)를 짓는 조각 셋, 정면에서 본 고층 건물 IB.tower, 위에서 본 납작 지붕 블록 IB.roofBlock(지붕 점이 넷이면 상자, 다섯 이상이면 한 모서리가 파인 L자: 보는 쪽을 향한 변마다 벽이 내려온다), 경기장 IB.stadium.</p></a><a class="card" href="IBM/parts/sets/corridor.html"><div class="thumb"><img src="IBM/thumbs/parts-sets-corridor.jpg" alt="" loading="lazy"></div><b>corridor</b><span>견본 · 3s</span><p>배경 세트 견본: 소실점 하나로 본 긴 복도 IB.corridor와 그 속을 날아가는 종이비행기 IB.paperPlane.</p></a><a class="card" href="IBM/parts/sets/facade.html"><div class="thumb"><img src="IBM/thumbs/parts-sets-facade.jpg" alt="" loading="lazy"></div><b>facade</b><span>견본 · 5s</span><p>배경 세트 견본: 원본 여섯째 스팟의 아파트 벽 IB.apartmentFacade, 창 둘이 나란하고 오른쪽 창 너머로 방(선반, 액자, 펜던트 등)이 보인다.</p></a><a class="card" href="IBM/parts/sets/party.html"><div class="thumb"><img src="IBM/thumbs/parts-sets-party.jpg" alt="" loading="lazy"></div><b>party</b><span>견본 · 4s</span><p>배경 세트 견본: 원본 넷째 스팟의 사무실 파티 구석 IB.partyCorner, 라벤더 파이프 받침의 농구 골대와 그물, 거기 묶인 풍선 여섯, 오른쪽 위 화면 밖으로 이어지는 가랜드.</p></a><a class="card" href="IBM/parts/sets/street.html"><div class="thumb"><img src="IBM/thumbs/parts-sets-street.jpg" alt="" loading="lazy"></div><b>street</b><span>견본 · 2s</span><p>배경 세트 견본: 금융가 거리 IB.financeStreet, 먼 스카이라인, 탑 둘(창 격자 IB.windowGrid), 기둥과 박공의 증권거래소, 연석과 가로등과 소화전과 빈 간판을 한 장의 멈춘 선화로 그린다.</p></a><a class="card" href="IBM/parts/sets/trading.html"><div class="thumb"><img src="IBM/thumbs/parts-sets-trading.jpg" alt="" loading="lazy"></div><b>trading</b><span>견본 · 5s</span><p>배경 세트 견본: 객장 벽의 시세판 IB.tickerBoard, 1280×280 판에 제목 띠와 여섯 칸 두 줄, 칸마다 이름과 값 대신 막대 둘과 화살표 하나(파란 위, 빨간 아래)이고 아래 가장자리에 흑연이 진다.</p></a><a class="card" href="IBM/parts/sets/windows.html"><div class="thumb"><img src="IBM/thumbs/parts-sets-windows.jpg" alt="" loading="lazy"></div><b>windows</b><span>견본 · 2.5s</span><p>배경 세트 견본: 창 둘, 아파트 벽의 내리닫이창 한 짝(IB.windowFrame 뒤, IB.sashAndSill 앞)과 빌딩 면의 창 격자 IB.windowGrid.</p></a></div><h3>효과 표시 <code>marks</code></h3><div class="grid"><a class="card" href="IBM/parts/marks/darkness.html"><div class="thumb"><img src="IBM/thumbs/parts-marks-darkness.jpg" alt="" loading="lazy"></div><b>darkness</b><span>견본 · 5s</span><p>효과 표시 견본: 어두운 장면 IB.darkness는 검정 한 면이고, 빛줄기는 번짐 없이 또렷한 삼각형으로 그 면을 도려낸다(원본 6편의 암전).</p></a><a class="card" href="IBM/parts/marks/impact.html"><div class="thumb"><img src="IBM/thumbs/parts-marks-impact.jpg" alt="" loading="lazy"></div><b>impact</b><span>견본 · 4s</span><p>효과 표시 견본: 움직임을 매끈하게 잇는 대신 옆에 몇 획 그어 두는 표시들, 충격선 IB.burst, 내려놓는 쿵 IB.thud, 입김 IB.breath, 꺼진 심지의 연기 IB.smoke, 물방울 IB.drop과 튀김 IB.splash, 흑연 문지름 IB.smudge, 신발 밑 분필 IB.puddle, 바퀴 밑 IB.ripples와 뒷바퀴 먼지 IB.wheelDust.</p></a><a class="card" href="IBM/parts/marks/whip-breakup.html"><div class="thumb"><img src="IBM/thumbs/parts-marks-whip-breakup.jpg" alt="" loading="lazy"></div><b>whip-breakup</b><span>견본 · 4s</span><p>효과 표시 견본: 컷이 속도선 휩(IB.whip)으로 넘어갈 때 샷이 부서지는 IB.whipBreakup, 두 장면의 두 방식을 차례로 보인다.</p></a></div><h3>박자 <code>time</code></h3><div class="grid"><a class="card" href="IBM/parts/time/clocks.html"><div class="thumb"><img src="IBM/thumbs/parts-time-clocks.jpg" alt="" loading="lazy"></div><b>clocks</b><span>견본 · 4s</span><p>박자 견본: IBM 룩의 시계 IB.frame(24fps 1프레임 단위), IB.twos(2프레임마다 한 장, 12fps), IB.threes(3프레임마다, 8fps)와 박자 격자 IB.T(n) = n/12, IB.FPS, 정착 곡선 IB.settle, 박자부터 센 그림 수 IB.drawn.</p></a><a class="card" href="IBM/parts/time/tables.html"><div class="thumb"><img src="IBM/thumbs/parts-time-tables.jpg" alt="" loading="lazy"></div><b>tables</b><span>견본 · 4s</span><p>박자 견본: 연기를 적는 그림 목록 도구 IB.held(그 프레임에 유효한 그림), IB.heldRow(값 여럿인 행 통째로), IB.play(캐릭터의 MOVE를 장면 표의 시작 프레임에 끼우기), IB.inbetween(손으로 놓은 섞는 비율), IB.alternate(두 그림 번갈아), IB.loop(멈추지 않는 순환).</p></a></div>
 <script>
   const live = new Map();   // iframe window -> iframe element, for matching the scene's "ready" message
   addEventListener('message', (e) => {

diff --git a/IBM/kit/sets/city.js b/IBM/kit/sets/city.js
@@ -16,10 +16,10 @@
     ctx.restore();
   };
 
-  /* roofBlock(ctx, q, opts) — a flat-roofed block seen from above: the roof is the four points q (left, back, right, front), the two near faces drop opts.h px. opts.tex: 'v' vertical lines on both faces, 'band' two horizontal lines with a row of dashes between them, 'h' horizontal lines on the right face, 'u' small window marks on the left face, 'none'. */
-  // 성진: the reference steps some of these roofs (an L with a notch); here every roof is four points. Redraw them stepped in the upgrade round (plan 4-3).
+  /* roofBlock(ctx, q, opts) — a flat-roofed block seen from above: the roof is the four points q (left, back, right, front), the two near faces drop opts.h px. More than four points make a stepped roof (an L, a notch: the reference steps some roofs): every edge facing the viewer drops a wall, and tex patterns each wall. opts.tex: 'v' vertical lines on both faces, 'band' two horizontal lines with a row of dashes between them, 'h' horizontal lines on the right face, 'u' small window marks on the left face, 'none'. */
   IB.roofBlock = (ctx, q, o = {}) => {
     const { h = 60, seed = 500, tex = 'v' } = o;
+    if (q.length > 4) return stepped(ctx, q, h, seed, tex);
     ctx.save();
     const down = (p) => [p[0], p[1] + h];
     IB.ink(ctx, [q[0], q[3], down(q[3]), down(q[0])], { closed: true, smooth: false, fill: C.bg, w: 3, seed: seed + 1 });
@@ -38,6 +38,29 @@
     if (tex === 'u') { face(q[0], q[3], 'u'); face(q[3], q[2], 'h'); }
     ctx.restore();
   };
+
+  /* A roof of more than four points: an L or a notched block (the reference steps some roofs). Every edge whose outward side faces the viewer (down the screen) drops a wall h px, the walls far to near, then the roof over them; tex patterns every wall as roofBlock does its two. */
+  function stepped(ctx, q, h, seed, tex) {
+    ctx.save();
+    const n = q.length, area = q.reduce((a, p, i) => a + p[0] * q[(i + 1) % n][1] - q[(i + 1) % n][0] * p[1], 0), turn = area > 0 ? -1 : 1;
+    const walls = [];
+    for (let i = 0; i < n; i++) {
+      const a = q[i], b = q[(i + 1) % n], ny = turn * (b[0] - a[0]);   // y of the edge's outward normal: > 0 faces the viewer
+      if (ny > 0) walls.push([a, b, i]);
+    }
+    walls.sort((u, v) => Math.max(u[0][1], u[1][1]) - Math.max(v[0][1], v[1][1]));
+    for (const [a, b, i] of walls) {
+      IB.ink(ctx, [a, b, [b[0], b[1] + h], [a[0], a[1] + h]], { closed: true, smooth: false, fill: C.bg, w: 3, seed: seed + 1 + i });
+      const len = Math.hypot(b[0] - a[0], b[1] - a[1]);
+      if (tex === 'band' && len > 30) {
+        for (const k of [0.36, 0.7]) IB.seg(ctx, a[0] + 3, a[1] + h * k, b[0] - 3, b[1] + h * k, { w: 1.8, wob: 0.4, seed: seed + i * 13 + k * 100 });
+        for (let j = 1; j < Math.floor(len / 20); j++) { const u = j / Math.floor(len / 20), x = lerp(a[0], b[0], u), y = lerp(a[1], b[1], u); IB.seg(ctx, x, y + h * 0.45, x, y + h * 0.6, { w: 2.2, wob: 0, seed: seed + i * 17 + j }); }
+      }
+      if (tex === 'v') for (let j = 1; j < Math.floor(len / 17); j++) { const u = j / Math.floor(len / 17), x = lerp(a[0], b[0], u), y = lerp(a[1], b[1], u); IB.seg(ctx, x, y + 12, x, y + Math.min(h - 8, 12 + h * 0.55), { w: 1.7, wob: 0.4, seed: seed + i * 7 + j }); }
+    }
+    IB.ink(ctx, q, { closed: true, smooth: false, fill: C.bg, w: 3.2, seed });
+    ctx.restore();
+  }
 
   /* stadium(ctx, opts) — the stadium: a drum seen from a little above, with a rounded shoulder, a band of big V trusses, a band of crosses between posts, a blue strip at its foot (the shot's one colour apart from what flies through), and the open roof showing pale seating and the dark bowl. opts.shift = [dx, dy] moves it from where the reference has it (centre x 965, foot y 790). */
   IB.stadium = (ctx, o = {}) => {
@@ -92,12 +115,11 @@
       return;
     }
     C1([[110, 700, 110, 48], [200, 780, 120, 44], [1700, 770, 110, 36]]);
-    IB.roofBlock(ctx, [[228, 672], [400, 642], [545, 656], [380, 696]], { h: 26, seed: 520 });
-    IB.roofBlock(ctx, [[330, 772], [528, 736], [546, 746], [346, 792]], { h: 30, seed: 525, tex: 'none' });
+    IB.roofBlock(ctx, [[205, 672], [495, 637], [524, 652], [520, 664], [362, 698], [515, 726], [526, 738], [318, 772]], { h: 55, seed: 520 });   // one block whose roof is cut by a notch on its right (the reference's first frame)
     IB.roofBlock(ctx, [[1400, 742], [1512, 708], [1590, 724], [1470, 760]], { h: 118, seed: 510, tex: 'u' });
     C1([[150, 900, 150, 60], [1640, 880, 80, 30], [1520, 900, 60, 24]]);
     IB.roofBlock(ctx, [[1690, 828], [1800, 806], [1850, 820], [1735, 845]], { h: 92, seed: 530, tex: 'h' });
-    IB.roofBlock(ctx, [[205, 837], [432, 790], [756, 837], [416, 918]], { h: 92, seed: 540, tex: 'band' });
+    IB.roofBlock(ctx, [[198, 834], [420, 790], [755, 833], [408, 920], [255, 888], [360, 862]], { h: 96, seed: 540, tex: 'band' });   // an L: its near-left corner stepped back (read on the reference's first frame, 50 px grid)
     C1([[920, 862, 150, 30], [820, 846, 60, 22], [1030, 854, 50, 20], [380, 1010, 120, 40], [1790, 970, 150, 60], [1905, 915, 60, 50]]);
     IB.roofBlock(ctx, [[1060, 948], [1380, 870], [1612, 896], [1300, 976]], { h: 120, seed: 550 });
     IB.roofBlock(ctx, [[1215, 922], [1340, 898], [1405, 912], [1280, 938]], { h: 24, seed: 560, tex: 'none' });

diff --git a/IBM/parts/sets/city-parts.html b/IBM/parts/sets/city-parts.html
@@ -12,7 +12,7 @@
 <script src="../../kit/sets/city.js"></script>
 <script src="../sample.js"></script>
 <script>
-/* 배경 세트 견본: 도시 세트(sets/city 전면)를 짓는 조각 셋, 정면에서 본 고층 건물 IB.tower, 위에서 본 납작 지붕 블록 IB.roofBlock, 경기장 IB.stadium. 고층 건물은 무늬(dots 창 대시 열, v 세로줄, h 가로줄, grid, bays 세로 창 넷)를 너비의 일부(from..to)에만 얹고 나머지는 희게 둔다: 원본은 대개 3분의 1을 비운다. cap은 지붕 위 좁은 블록이고, 바닥은 y 700까지 내려가 앞의 것 뒤로 숨는다. 지붕 블록은 네 점(왼, 뒤, 오른, 앞) 지붕에 두 면이 h만큼 내려오고, 면의 무늬는 tex(v, band, h, u, none)다. 선은 1.6–4.5px이 섞이고 색은 경기장 발치의 파란 띠 하나뿐이다. 행과 seed는 IB.stadiumCity의 TOWERS·ground() 그대로이고, 칸에 늘어놓으려고 x만 옮겼다. */
+/* 배경 세트 견본: 도시 세트(sets/city 전면)를 짓는 조각 셋, 정면에서 본 고층 건물 IB.tower, 위에서 본 납작 지붕 블록 IB.roofBlock(지붕 점이 넷이면 상자, 다섯 이상이면 한 모서리가 파인 L자: 보는 쪽을 향한 변마다 벽이 내려온다), 경기장 IB.stadium. 고층 건물은 무늬(dots 창 대시 열, v 세로줄, h 가로줄, grid, bays 세로 창 넷)를 너비의 일부(from..to)에만 얹고 나머지는 희게 둔다: 원본은 대개 3분의 1을 비운다. cap은 지붕 위 좁은 블록이고, 바닥은 y 700까지 내려가 앞의 것 뒤로 숨는다. 지붕 블록은 네 점(왼, 뒤, 오른, 앞) 지붕에 두 면이 h만큼 내려오고, 면의 무늬는 tex(v, band, h, u, none)다. 선은 1.6–4.5px이 섞이고 색은 경기장 발치의 파란 띠 하나뿐이다. 행과 seed는 IB.stadiumCity의 TOWERS·ground() 그대로이고, 칸에 늘어놓으려고 x만 옮겼다. */
 const TOWERS = { v: [[780, 945, 395, 'v', 0.05, 0.95], 321], dots: [[1522, 1650, 392, 'dots', 0.1, 0.6], 308], h: [[1725, 1845, 478, 'h', 0.3, 0.95], 373], grid: [[1312, 1492, 335, 'grid', 0.08, 1], 256], bays: [[100, 285, 435, 'bays', 0.05, 0.75], 334], cap: [[298, 368, 335, 'dots', 0.1, 0.9, [305, 352, 322]], 269] };
 const row = (list, x0, gap) => { let x = x0; return list.map((k) => { const [b, seed] = TOWERS[k], dx = x - b[0]; x += b[1] - b[0] + gap; return { b, seed, dx }; }); };
 const tower = (ctx, { b, seed, dx }) => { ctx.save(); ctx.translate(dx, 0); IB.tower(ctx, b, { seed }); ctx.restore(); };
@@ -26,7 +26,7 @@ MG.scene({
     const c = SAMPLE.grid(6, 3), V = (cx, bottom) => [cx - c[0][2] / 2, bottom - c[0][3], c[0][2], c[0][3]];
     SAMPLE.cell(ctx, c[0], V(960, 720), () => row(['v', 'dots', 'h'], 700, 40).forEach((q) => tower(ctx, q)), "IB.tower(row) — 'v', 'dots', 'h'");
     SAMPLE.cell(ctx, c[1], V(960, 720), () => row(['grid', 'bays', 'cap'], 690, 30).forEach((q) => tower(ctx, q)), "IB.tower — 'grid', 'bays', cap");
-    SAMPLE.cell(ctx, c[2], V(480, 1030), () => IB.roofBlock(ctx, [[205, 837], [432, 790], [756, 837], [416, 918]], { h: 92, seed: 540, tex: 'band' }), "IB.roofBlock(q, { h, tex: 'band' })");
+    SAMPLE.cell(ctx, c[2], V(480, 1030), () => IB.roofBlock(ctx, [[198, 834], [420, 790], [755, 833], [408, 920], [255, 888], [360, 862]], { h: 96, seed: 540, tex: 'band' }), "IB.roofBlock(6-point q: an L, tex 'band')");
     const wide = SAMPLE.span(c, 3, 4);
     SAMPLE.cell(ctx, wide, SAMPLE.fit(wide, [965, 885], 20), () => IB.stadium(ctx), 'IB.stadium({ shift })');
     SAMPLE.cell(ctx, c[5], V(1600, 980), () => {
